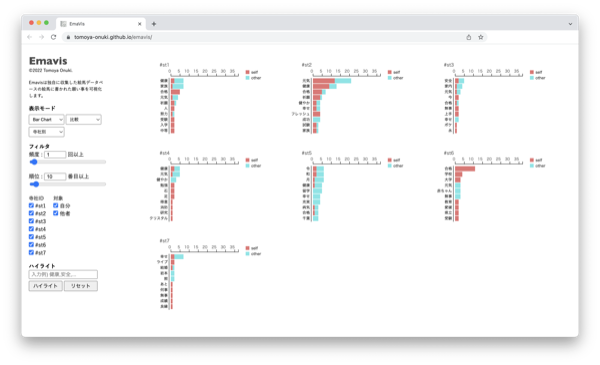
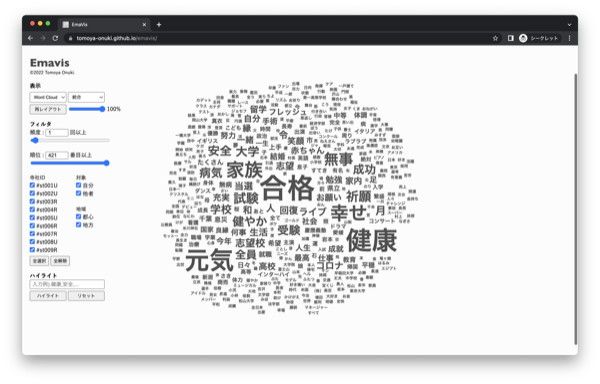
emavisの最新版を公開

diff --git a/software/emavis.html b/software/emavis.html
@@ -55,13 +55,47 @@
 			
 			<div class="works_contents">
 				<div class="block_l">
-					<img src="../img/emavis/00.png">
+					<img src="../img/emavis/07.png">
 					
-					<img src="../img/emavis/01.png">
+					<img src="../img/emavis/15.png">
 					
-					<img src="../img/emavis/02.png">
+					<img src="../img/emavis/19.png">
 					
-					<img src="../img/emavis/03.png">
+					<img class="half_img_l" src="../img/emavis/01.png">
+					
+					<img class="half_img_r" src="../img/emavis/02.png">
+					
+					<img class="half_img_l" src="../img/emavis/03.png">
+					
+					<img class="half_img_r" src="../img/emavis/04.png">
+					
+					<img class="half_img_l" src="../img/emavis/05.png">
+					
+					<img class="half_img_r" src="../img/emavis/06.png">
+					
+					<img class="half_img_l" src="../img/emavis/08.png">
+					
+					<img class="half_img_r" src="../img/emavis/20.png">
+					
+					<img class="half_img_l" src="../img/emavis/09.png">
+					
+					<img class="half_img_r" src="../img/emavis/10.png">
+					
+					<img class="half_img_l" src="../img/emavis/11.png">
+					
+					<img class="half_img_r" src="../img/emavis/12.png">
+					
+					<img class="half_img_l" src="../img/emavis/13.png">
+					
+					<img class="half_img_r" src="../img/emavis/14.png">
+					
+					<img class="half_img_l" src="../img/emavis/16.png">
+					
+					<img class="half_img_r" src="../img/emavis/17.png">
+					
+					<img class="half_img_l" src="../img/emavis/18.png">
+					
+					<img class="half_img_r" src="../img/emavis/21.png">
 					
 				</div>
 				
@@ -74,7 +108,7 @@
 					
 					<div>Emavisは絵馬に書かれた願い事を可視化するプロジェクトである。</div>
 					
-					<div>私たちは日本各地の寺社仏閣を訪れ絵馬を調査し、"絵馬データベース"を作成した。 現在は7つの寺社仏閣で収集した223の願い事を可視化した。</div>
+					<div>私たちは日本各地の寺社仏閣を訪れ絵馬を調査し、"絵馬データベース"を作成した。 現在は9つの寺社仏閣で収集した223の願い事を可視化した。</div>
 					
 					<div>ワードクラウドや棒グラフを基本とした視覚表現を表示することで、どの神社で誰に向けてどんな願いを書いたかを分析することが可能である。</div>
 					
